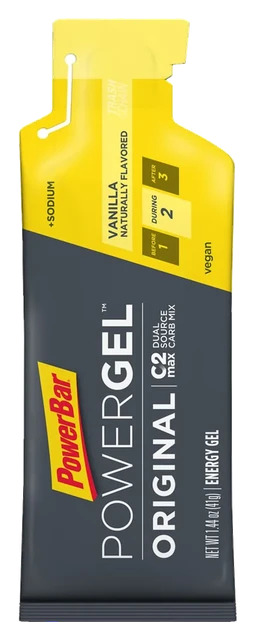
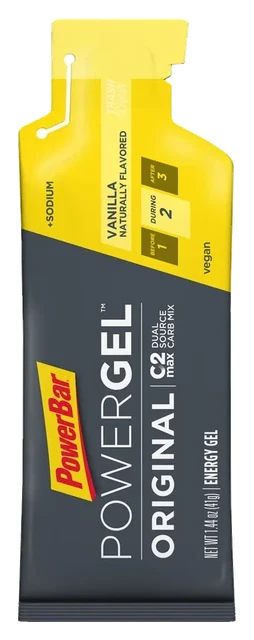
Photos: remove stray specks left by background removal
frame-photos.py now clears detached bits under 1% of the product's area
before framing. Re-run on the 12 photos that had them (e.g. a dark speck
beside the NEVERSECOND C30 bag, flecks under Huma Ultra).

diff --git a/scripts/frame-photos.py b/scripts/frame-photos.py
@@ -16,15 +16,31 @@ import glob
 import os
 import sys
 
+import numpy as np
 from PIL import Image
+from scipy import ndimage
 
 MARGIN = 0.03      # padding on every side, as a share of the product's long edge
 MAX_EDGE = 640
 ALPHA_MIN = 128    # the solid product, not a faint baked-in drop shadow
+SPECK = 0.01       # detached bits under 1% of the product's area are cutout debris
+
+
+def drop_specks(im):
+    """Clear stray pixels left floating beside the product by a sloppy
+    background removal; they'd also skew the centering."""
+    px = np.array(im)
+    labels, n = ndimage.label(px[:, :, 3] > 16)
+    if n < 2:
+        return im
+    sizes = ndimage.sum(np.ones(labels.shape), labels, range(1, n + 1))
+    specks = [i + 1 for i, size in enumerate(sizes) if size < sizes.max() * SPECK]
+    px[np.isin(labels, specks), 3] = 0
+    return Image.fromarray(px)
 
 
 def frame(path):
-    im = Image.open(path).convert("RGBA")
+    im = drop_specks(Image.open(path).convert("RGBA"))
     box = im.getchannel("A").point(lambda v: 255 if v > ALPHA_MIN else 0).getbbox()
     if not box:
         return f"skip (empty): {path}"
